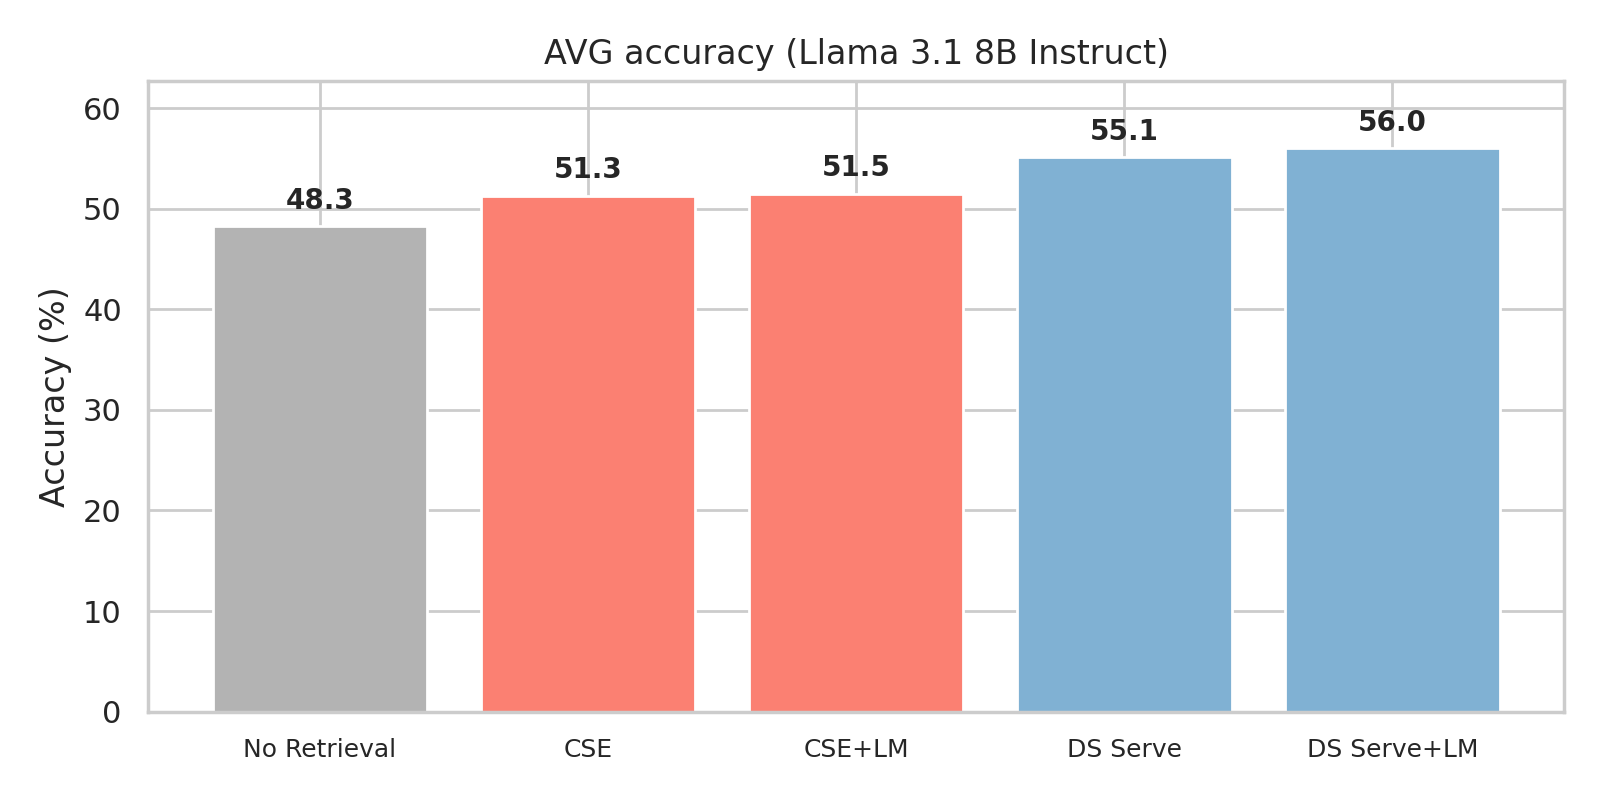
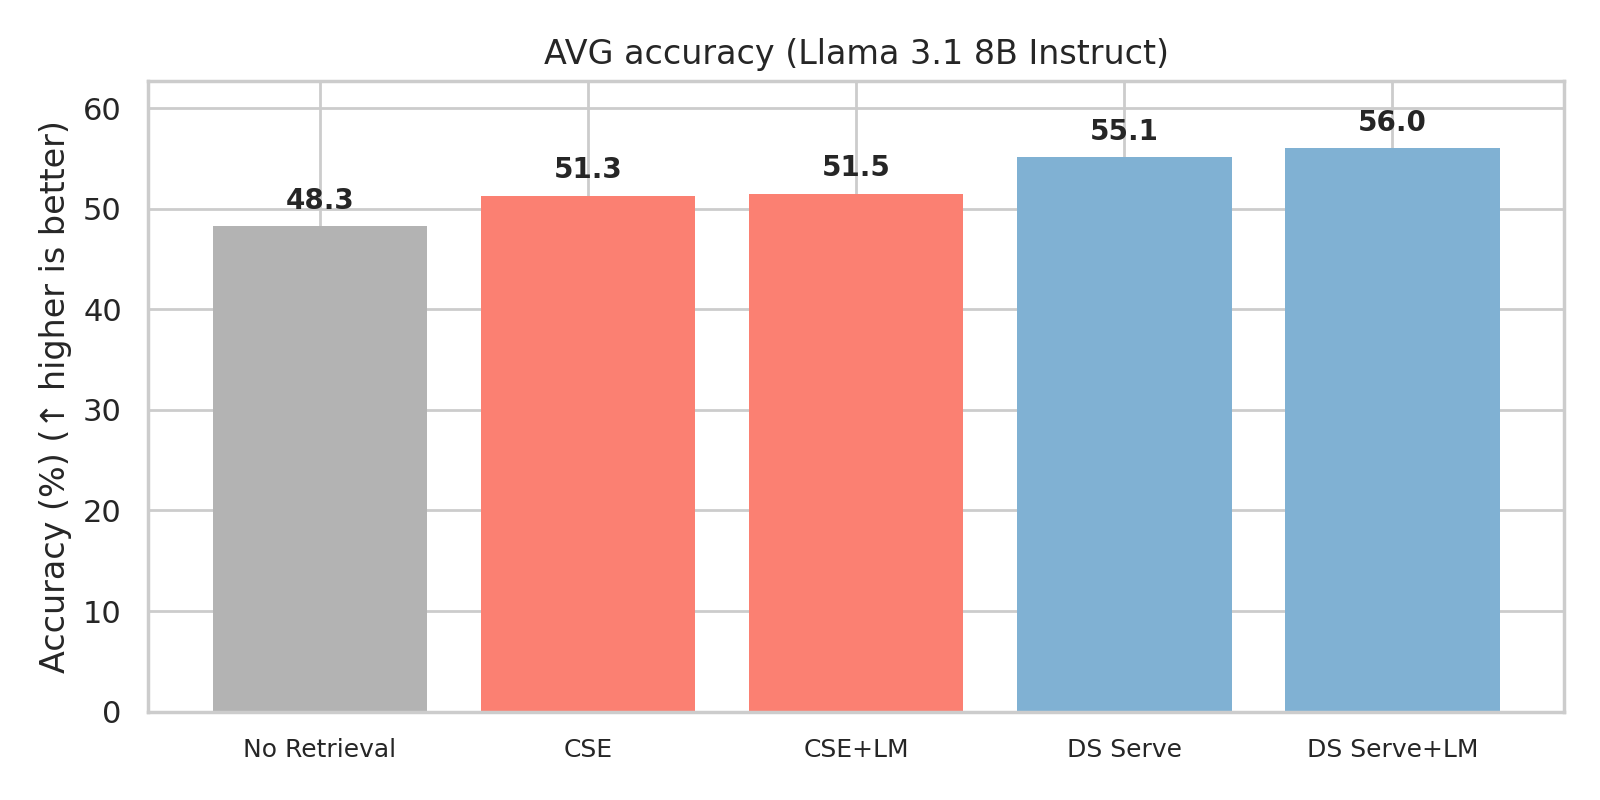
figure changes big

diff --git a/scripts/plot_diskann_vs_ivfpq_combined.py b/scripts/plot_diskann_vs_ivfpq_combined.py
@@ -1,0 +1,89 @@
+#!/usr/bin/env python3
+"""Generate combined DiskANN vs IVFPQ comparison: throughput, latency, accuracy."""
+
+import os
+import matplotlib
+matplotlib.use("Agg")
+import matplotlib.pyplot as plt
+
+try:
+    import seaborn as sns
+except Exception:
+    sns = None
+
+REPO_ROOT = os.path.abspath(os.path.join(os.path.dirname(__file__), ".."))
+PLOTS_DIR = os.path.join(REPO_ROOT, "docs", "plots")
+
+
+def main() -> None:
+    # Colors - consistent with other figures
+    colors = {
+        "DiskANN": "#fb8072",  # coral
+        "IVFPQ": "#80b1d3",    # blue
+    }
+    
+    # Data for recommended configs: DiskANN L=1000, IVFPQ nprobe=256
+    # Throughput (batched QPS)
+    throughput = {"DiskANN (L=1000)": 238.10, "IVFPQ (nprobe=256)": 91.02}
+    
+    # Latency (single-request, ms)
+    latency = {"DiskANN (L=1000)": 3.78, "IVFPQ (nprobe=256)": 10.57}
+    
+    # Accuracy (TriviaQA Recall as representative metric)
+    accuracy = {"DiskANN (L=5000)": 89.9, "IVFPQ (nprobe=256)": 88.2}
+
+    FIGSIZE = (10, 4)
+    os.makedirs(PLOTS_DIR, exist_ok=True)
+
+    fig, (ax1, ax2, ax3) = plt.subplots(1, 3, figsize=FIGSIZE)
+    if sns:
+        sns.set_theme(style="whitegrid")
+
+    # Throughput subplot
+    labels_qps = list(throughput.keys())
+    vals_qps = list(throughput.values())
+    bar_colors_qps = [colors["DiskANN"], colors["IVFPQ"]]
+    ax1.bar(["DiskANN", "IVFPQ"], vals_qps, color=bar_colors_qps, edgecolor='none')
+    ax1.set_title("Batched throughput", fontsize=12)
+    ax1.set_ylabel("QPS (↑ higher is better)")
+    for i, v in enumerate(vals_qps):
+        ax1.annotate(f"{v:.2f}", (i, v), ha="center", va="bottom",
+                     fontsize=10, fontweight="bold", xytext=(0, 4), textcoords="offset points")
+    ax1.set_ylim(0, max(vals_qps) * 1.15)
+
+    # Latency subplot
+    labels_lat = list(latency.keys())
+    vals_lat = list(latency.values())
+    bar_colors_lat = [colors["DiskANN"], colors["IVFPQ"]]
+    ax2.bar(["DiskANN", "IVFPQ"], vals_lat, color=bar_colors_lat, edgecolor='none')
+    ax2.set_title("Single-request latency", fontsize=12)
+    ax2.set_ylabel("Latency (ms) (↓ lower is better)")
+    for i, v in enumerate(vals_lat):
+        ax2.annotate(f"{v:.2f}", (i, v), ha="center", va="bottom",
+                     fontsize=10, fontweight="bold", xytext=(0, 4), textcoords="offset points")
+    ax2.set_ylim(0, max(vals_lat) * 1.15)
+
+    # Accuracy subplot
+    labels_acc = list(accuracy.keys())
+    vals_acc = list(accuracy.values())
+    bar_colors_acc = [colors["DiskANN"], colors["IVFPQ"]]
+    ax3.bar(["DiskANN", "IVFPQ"], vals_acc, color=bar_colors_acc, edgecolor='none')
+    ax3.set_title("TriviaQA Recall", fontsize=12)
+    ax3.set_ylabel("Recall (%) (↑ higher is better)")
+    for i, v in enumerate(vals_acc):
+        ax3.annotate(f"{v:.1f}", (i, v), ha="center", va="bottom",
+                     fontsize=10, fontweight="bold", xytext=(0, 4), textcoords="offset points")
+    # Zoom y-axis to show difference
+    vmin, vmax = min(vals_acc), max(vals_acc)
+    padding = max(1.0, (vmax - vmin) * 0.3)
+    ax3.set_ylim(max(0, vmin - padding * 3), vmax + padding)
+
+    fig.tight_layout()
+    fig.savefig(os.path.join(PLOTS_DIR, "diskann_vs_ivfpq_combined.png"), dpi=200)
+    plt.close(fig)
+    print(f"Saved: {os.path.join(PLOTS_DIR, 'diskann_vs_ivfpq_combined.png')}")
+
+
+if __name__ == "__main__":
+    main()
+

diff --git a/scripts/plot_qps.py b/scripts/plot_qps.py
@@ -77,16 +77,16 @@ def plot_diskann_vs_ivfpq_summary(diskann_rows, faiss_rows, out_dir: str) -> Non
         vals.append(r["QPS"])
         bar_colors.append(colors["IVFPQ"])
 
-    plt.figure(figsize=(10, 4.5))
+    plt.figure(figsize=(9, 4))  # consistent size with latency figure
     if sns:
         sns.set_theme(style="whitegrid")
     ax = plt.gca()
-    ax.bar(range(len(labels)), vals, color=bar_colors)
+    ax.bar(range(len(labels)), vals, color=bar_colors, edgecolor='none')
 
     ax.set_xticks(range(len(labels)))
     ax.set_xticklabels(labels, rotation=25, ha="right", fontsize=10)
-    ax.set_ylabel("QPS")
-    ax.set_title("DiskANN vs IVFPQ throughput")
+    ax.set_ylabel("QPS (↑ higher is better)")
+    # No title - section title serves as figure title
     ax.legend(handles=[
         plt.Rectangle((0, 0), 1, 1, color=colors["DiskANN"], label="DiskANN"),
         plt.Rectangle((0, 0), 1, 1, color=colors["IVFPQ"], label="IVFPQ"),
@@ -105,6 +105,48 @@ def plot_diskann_vs_ivfpq_summary(diskann_rows, faiss_rows, out_dir: str) -> Non
 
     plt.tight_layout()
     plt.savefig(os.path.join(out_dir, "diskann_vs_ivfpq_qps_multi.png"), dpi=160)
+    plt.close()
+
+
+def plot_diskann_vs_ivfpq_latency(diskann_rows, faiss_rows, out_dir: str) -> None:
+    """Single-request latency comparison: DiskANN vs IVFPQ with same color scheme."""
+    colors = {"DiskANN": "#fb8072", "IVFPQ": "#80b1d3"}  # same as throughput
+
+    # Use recommended configs: DiskANN L=1000, IVFPQ nprobe=256
+    diskann_1000 = next((r for r in diskann_rows if r["L"] == 1000), diskann_rows[0])
+    ivfpq_256 = next((r for r in faiss_rows if r["nprobe"] == 256), faiss_rows[0])
+
+    labels = ["DiskANN (L=1000)", "IVFPQ (nprobe=256)"]
+    # Total latency for single request
+    vals = [diskann_1000["total_ms"], ivfpq_256["total_ms"]]
+    bar_colors = [colors["DiskANN"], colors["IVFPQ"]]
+
+    plt.figure(figsize=(9, 4))  # same size as throughput figure
+    if sns:
+        sns.set_theme(style="whitegrid")
+    ax = plt.gca()
+    ax.bar(labels, vals, color=bar_colors, edgecolor='none')
+
+    ax.set_ylabel("Latency (ms) (↓ lower is better)")
+    # No title - section title serves as figure title
+    ax.legend(handles=[
+        plt.Rectangle((0, 0), 1, 1, color=colors["DiskANN"], label="DiskANN"),
+        plt.Rectangle((0, 0), 1, 1, color=colors["IVFPQ"], label="IVFPQ"),
+    ], fontsize=11)
+
+    for i, v in enumerate(vals):
+        ax.annotate(f"{v:.2f}", (i, v), ha="center", va="bottom",
+                    fontsize=10, fontweight="bold", xytext=(0, 4), textcoords="offset points")
+
+    try:
+        ymax = max(vals)
+        if math.isfinite(ymax) and ymax > 0:
+            ax.set_ylim(0, ymax * 1.15)
+    except Exception:
+        pass
+
+    plt.tight_layout()
+    plt.savefig(os.path.join(out_dir, "diskann_vs_ivfpq_latency.png"), dpi=160)
     plt.close()
 
 

diff --git a/scripts/plot_search_engine_throughput_compare.py b/scripts/plot_search_engine_throughput_compare.py
@@ -55,8 +55,8 @@ def main() -> None:
     labels_lat = list(single_latency_ms.keys())
     vals_lat = [single_latency_ms[k] for k in labels_lat]
     ax1.bar(labels_lat, vals_lat, color=[colors[l] for l in labels_lat], edgecolor='none')
-    ax1.set_title("Single-request latency (ms)")
-    ax1.set_ylabel("Latency (ms)")
+    ax1.set_title("Single-request latency")
+    ax1.set_ylabel("Latency (ms) (↓ lower is better)")
     for i, v in enumerate(vals_lat):
         ax1.annotate(f"{v:.2f}", (i, v), ha="center", va="bottom",
                      fontsize=10, fontweight="bold", xytext=(0, 4), textcoords="offset points")
@@ -71,8 +71,8 @@ def main() -> None:
     labels_qps = list(batched_qps.keys())
     vals_qps = [batched_qps[k] for k in labels_qps]
     ax2.bar(labels_qps, vals_qps, color=[colors[l] for l in labels_qps], edgecolor='none')
-    ax2.set_title("Batched throughput (QPS)")
-    ax2.set_ylabel("QPS")
+    ax2.set_title("Batched throughput")
+    ax2.set_ylabel("QPS (↑ higher is better)")
     for i, v in enumerate(vals_qps):
         ax2.annotate(f"{v:.2f}", (i, v), ha="center", va="bottom",
                      fontsize=10, fontweight="bold", xytext=(0, 4), textcoords="offset points")
@@ -109,9 +109,9 @@ def main() -> None:
             color_acc.append(colors["Google API"])
         else:
             color_acc.append("#b3b3b3")
-    ax.bar(labels_acc, vals_acc, color=color_acc)
+    ax.bar(labels_acc, vals_acc, color=color_acc, edgecolor='none')
     ax.set_title("AVG accuracy (Llama 3.1 8B Instruct)")
-    ax.set_ylabel("Accuracy (%)")
+    ax.set_ylabel("Accuracy (%) (↑ higher is better)")
     ax.set_xticks(range(len(labels_acc)))
     ax.set_xticklabels(labels_acc, rotation=0, ha="center", fontsize=9)  # flat labels
     for i, v in enumerate(vals_acc):

diff --git a/scripts/plot_ivfpq_vs_diskann.py b/scripts/plot_ivfpq_vs_diskann.py
@@ -41,8 +41,8 @@ DATASETS = {
     },
 }
 OUTPUT_FILES = {
-    "TriviaQA": os.path.join(DOCS_DIR, "accuracy_ivfpq_vs_diskann_triviaqa.png"),
-    "NaturalQS": os.path.join(DOCS_DIR, "accuracy_ivfpq_vs_diskann_naturalqs.png"),
+    "TriviaQA": os.path.join(DOCS_DIR, "plots", "accuracy_ivfpq_vs_diskann_triviaqa.png"),
+    "NaturalQS": os.path.join(DOCS_DIR, "plots", "accuracy_ivfpq_vs_diskann_naturalqs.png"),
 }
 
 
@@ -109,7 +109,7 @@ def plot_dataset(dataset: str) -> str:
 
     ax.set_xticks(x_positions)
     ax.set_xticklabels(labels)
-    ax.set_ylabel("Score", fontsize=14)
+    ax.set_ylabel("Score (↑ higher is better)", fontsize=14)
     ax.set_title(f"{dataset} Accuracy: IVFPQ vs DiskANN", fontsize=16)
     ax.legend(fontsize=12)
 

diff --git a/scripts/plot_llm_interpolation.py b/scripts/plot_llm_interpolation.py
@@ -44,7 +44,7 @@ def main() -> None:
     bars3 = ax.bar([i + width for i in x], ds_serve_exact, width, 
                    label="DS Serve + Exact", color=colors["DS Serve + Exact"], edgecolor='none')
 
-    ax.set_ylabel("Accuracy (%)")
+    ax.set_ylabel("Accuracy (%) (↑ higher is better)")
     ax.set_title("Interpolating DS Serve with LLM (LLaMa 3.1 8B Instruct)")
     ax.set_xticks(x)
     ax.set_xticklabels(tasks, fontsize=10)

diff --git a/docs/index.md b/docs/index.md
@@ -283,26 +283,12 @@ This represents a significantly larger datastore than most prior work, and to th
   <img src="{{ 'plots/llm_interpolation_accuracy.png' | relative_url }}" alt="LLM interpolation accuracy" style="width: 75%; margin: 8px;" />
 </p>
 
-<h3 align="center">Accuracy: DiskANN vs IVFPQ</h3>
-<p>Using LLaMa 3.1 8B Instruct, DiskANN (L=5000) outperforms IVFPQ (nprobe=256) across Recall / EM / F1 on <a href="https://arxiv.org/abs/1705.03551" target="_blank">TriviaQA</a> and <a href="https://arxiv.org/abs/1906.00300" target="_blank">Natural Questions</a>. DiskANN is the recommended backend; IVFPQ remains available as a legacy mode for experimentation.</p>
+<h3 align="center">DiskANN vs IVFPQ</h3>
+<p>DiskANN is more accurate <i>and</i> faster than IVFPQ. At recommended configs (DiskANN L=1000, IVFPQ nprobe=256), DiskANN achieves <b>~2.6× higher throughput</b>, <b>~3× lower latency</b>, and <b>higher accuracy</b> on <a href="https://arxiv.org/abs/1705.03551" target="_blank">TriviaQA</a>. The internal DiskANN index reaches up to 10,000 QPS; DiskANN is the recommended default.</p>
 <p align="center">
-  <img src="{{ 'plots/accuracy_ivfpq_vs_diskann_triviaqa.png' | relative_url }}" alt="TriviaQA accuracy DiskANN vs IVFPQ" style="width: 44%; margin: 8px;" />
-  <img src="{{ 'plots/accuracy_ivfpq_vs_diskann_naturalqs.png' | relative_url }}" alt="NaturalQS accuracy DiskANN vs IVFPQ" style="width: 44%; margin: 8px;" />
+  <img src="{{ 'plots/diskann_vs_ivfpq_combined.png' | relative_url }}" alt="DiskANN vs IVFPQ: throughput, latency, accuracy" style="width: 85%; margin: 8px;" />
 </p>
-<p class="small-note"><b>Metrics:</b> Recall = fraction of questions where at least one retrieved passage contains the gold answer; EM (Exact Match) = generated answer exactly matches gold; F1 = token-level overlap between generated and gold answers.</p>
-<h3 align="center">Throughput: DiskANN vs IVFPQ</h3>
-<p>DiskANN achieves higher QPS than IVFPQ across tested configs (labels show L for DiskANN, nprobe for IVFPQ). The internal DiskANN index reaches up to <b>10,000 QPS</b>; end-to-end throughput (including embedding and passage mapping) ranges ~150–240 QPS depending on <i>L</i>. <b>L≈1000</b> balances accuracy and speed; DiskANN remains the recommended default.</p>
-<p align="center">
-  <img src="{{ 'plots/diskann_vs_ivfpq_qps_multi.png' | relative_url }}" alt="DiskANN vs IVFPQ throughput comparison" style="width: 75%; margin: 8px;" />
-</p>
-<hr />
-
-<h3 align="center">Single-request latency: IVFPQ vs DiskANN</h3>
-<p>Latency breakdown for single-request mode (used in interactive UI). DiskANN achieves lower total latency than IVFPQ across tested configurations.</p>
-<p align="center">
-  <img src="{{ 'plots/diskann_single_request_latency_vs_L.png' | relative_url }}" alt="DiskANN single-request latency breakdown" style="width: 60%; margin: 8px;" />
-</p>
-<p class="small-note"><b>Note:</b> Latency measures end-to-end wall-clock time (embedding, index search, passage mapping). Values may fluctuate slightly based on system load.</p>
+<p class="small-note"><b>Note:</b> IVFPQ remains available as a legacy mode for experimentation. Latency measures end-to-end wall-clock time.</p>
 <hr />
 
 
